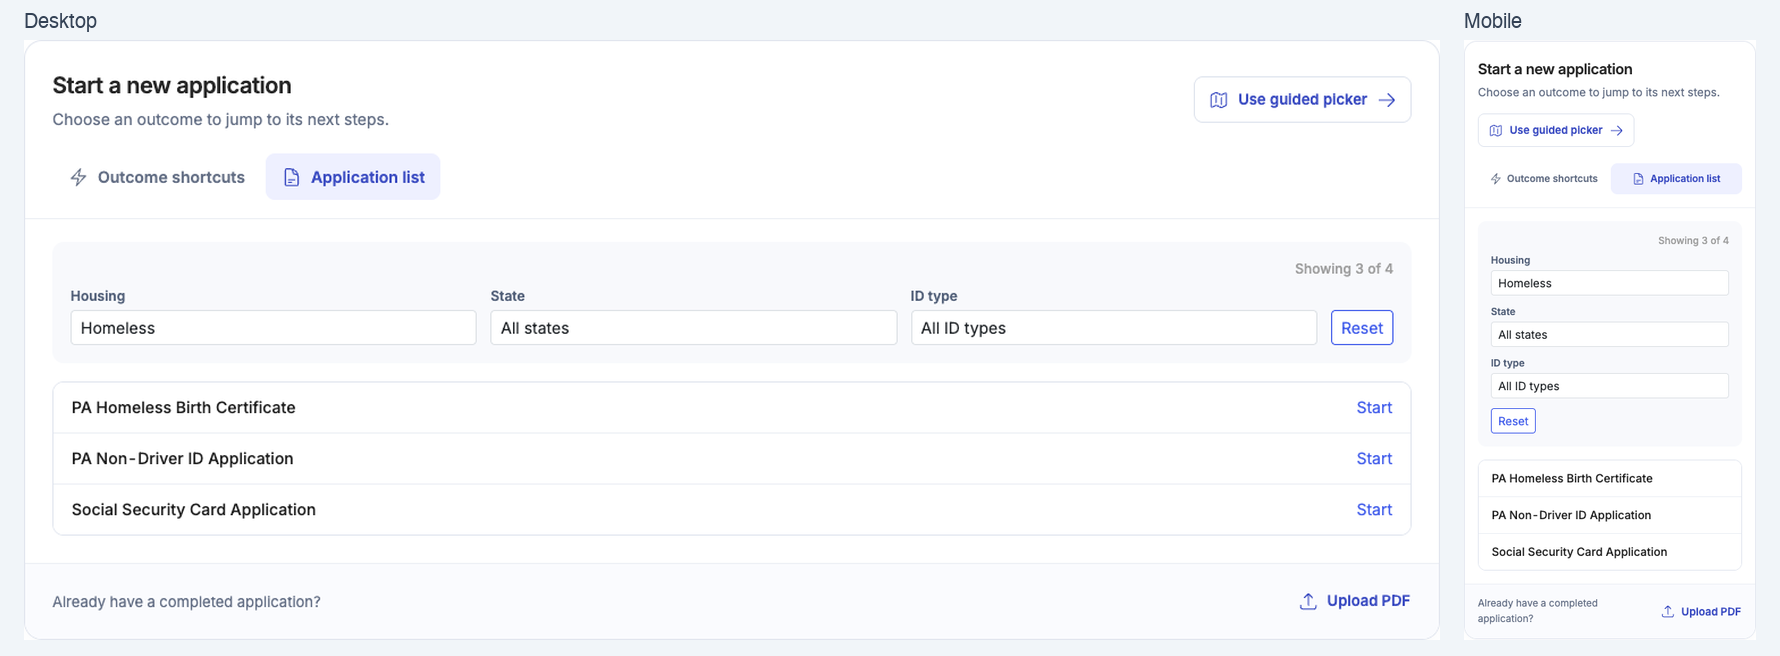
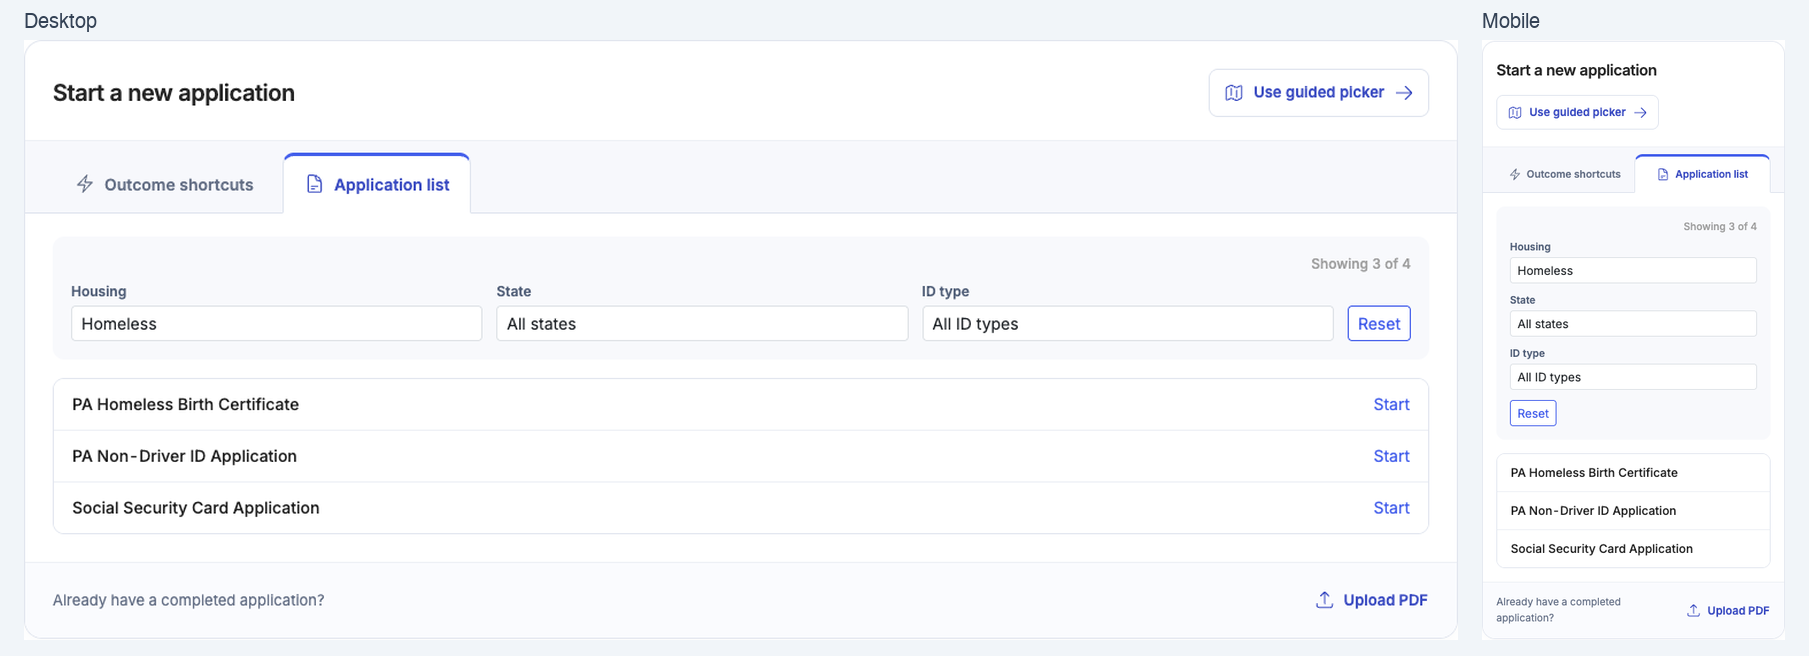
Connect application tabs to their panels and simplify header

diff --git a/src/components/Applications/ApplicationStartTabs.scss b/src/components/Applications/ApplicationStartTabs.scss
@@ -21,13 +21,6 @@
 			line-height: 1.5;
 			letter-spacing: -0.025em;
 		}
-
-		p {
-			margin: 0.25rem 0 0;
-			color: #657086;
-			font-size: 0.875rem;
-			line-height: 1.5;
-		}
 	}
 
 	svg {
@@ -62,9 +55,11 @@
 
 	&__tabs {
 		display: flex;
-		gap: 0.25rem;
-		padding: 0 1.5rem 1rem;
-		border-bottom: 0.0625rem solid #edf0f5;
+		gap: 0.375rem;
+		padding: 0.625rem 1.5rem 0;
+		border-top: 0.0625rem solid #edf0f5;
+		border-bottom: 0.0625rem solid #dfe4ee;
+		background: #f7f8fc;
 	}
 
 	&__tab {
@@ -72,18 +67,26 @@
 		align-items: center;
 		justify-content: center;
 		gap: 0.5rem;
-		padding: 0.625rem 0.875rem;
-		border: 0;
-		border-radius: 0.5rem;
+		margin-bottom: -0.0625rem;
+		padding: 0.875rem 1.125rem;
+		border: 0.0625rem solid transparent;
+		border-top-width: 0.1875rem;
+		border-radius: 0.625rem 0.625rem 0 0;
 		background: transparent;
 		color: #657086;
 		font-size: 0.875rem;
 		font-weight: 600;
 		line-height: 1.5;
 
-		&:hover { background: #f5f6fa; }
+		&:hover { background: #edf0f7; }
 
-		&--selected, &--selected:hover { background: #eef0ff; color: #3c4dc2; }
+		&--selected, &--selected:hover {
+			border-color: #dfe4ee;
+			border-top-color: #445feb;
+			border-bottom-color: #fff;
+			background: #fff;
+			color: #3c4dc2;
+		}
 	}
 
 	&__panels { padding: 1.25rem 1.5rem 1.5rem; }
@@ -205,9 +208,9 @@
 
 		&__header h2 { font-size: 1.125rem; }
 
-		&__tabs { gap: 0.125rem; padding: 0 1rem 1rem; }
+		&__tabs { gap: 0.125rem; padding: 0.5rem 1rem 0; }
 
-		&__tab { flex: 1; gap: 0.375rem; padding: 0.625rem 0.5rem; font-size: 0.75rem; }
+		&__tab { flex: 1; gap: 0.375rem; padding: 0.75rem 0.5rem; font-size: 0.75rem; }
 
 		&__tab svg { width: 1rem; height: 1rem; }
 

diff --git a/src/components/Applications/ApplicationStartTabs.tsx b/src/components/Applications/ApplicationStartTabs.tsx
@@ -137,10 +137,7 @@ const OutcomeShortcuts = ({ clientUsername, clientName }: Pick<Props, 'clientUse
 const ApplicationStartTabs = ({ children, clientUsername, clientName, initialTab, onUpload }: Props) => (
   <section className="application-start" aria-label="Start a new application">
     <div className="application-start__header">
-      <div>
-        <h2>Start a new application</h2>
-        <p>Choose an outcome to jump to its next steps.</p>
-      </div>
+      <h2>Start a new application</h2>
       {clientUsername && (
         <Link
           className="application-start__secondary"
